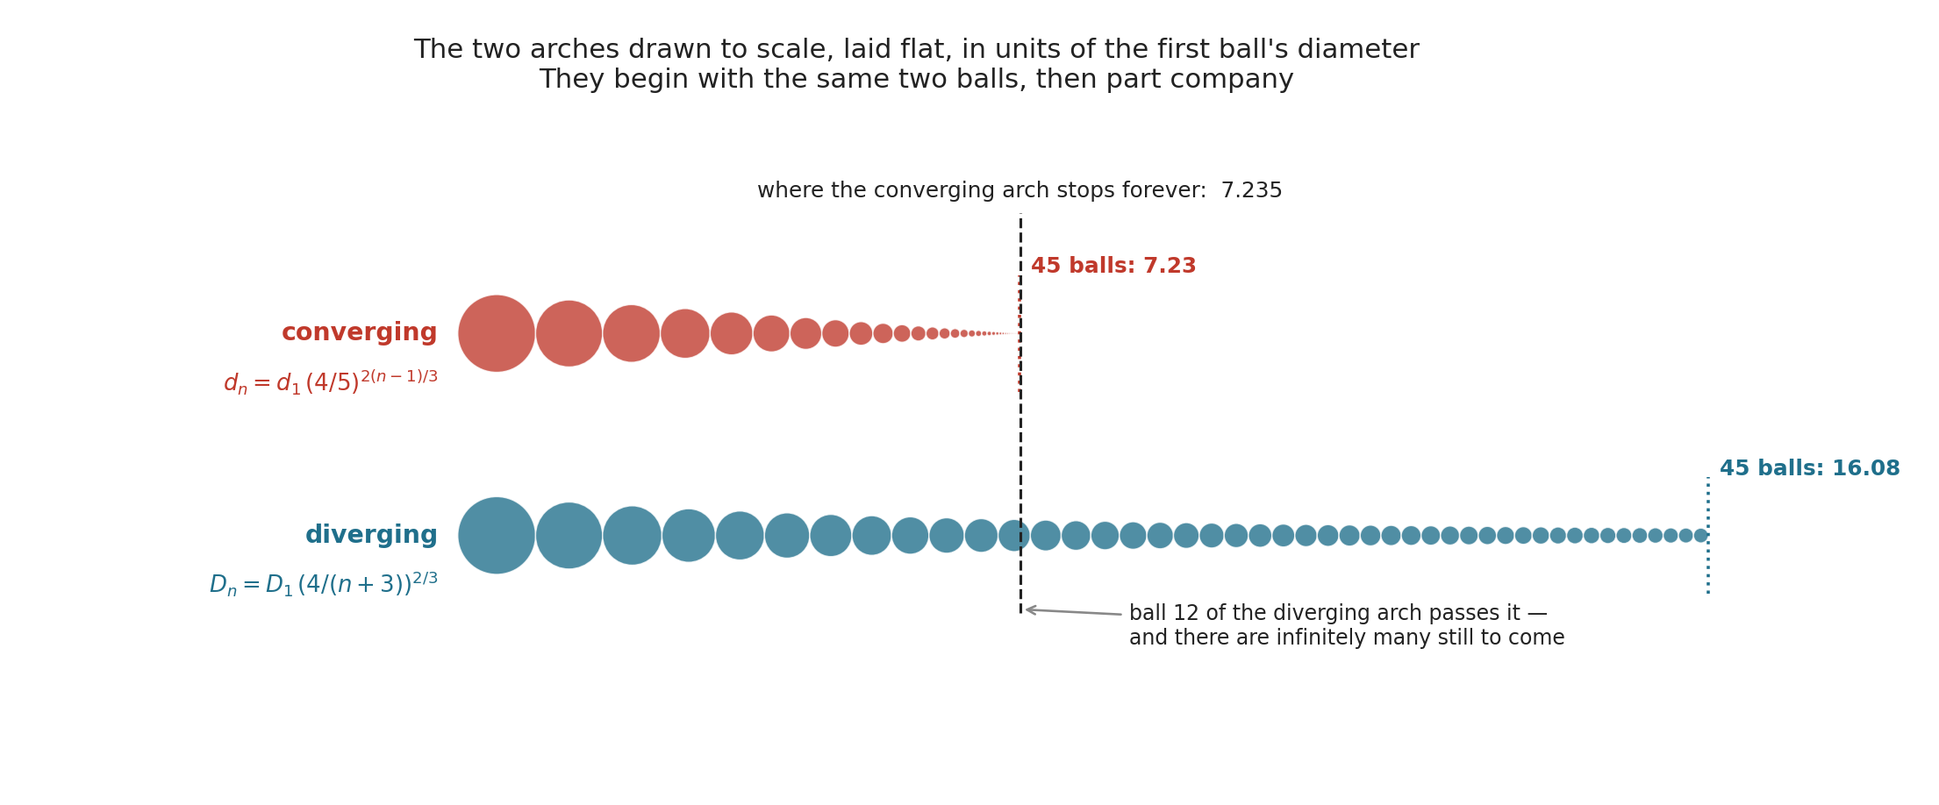
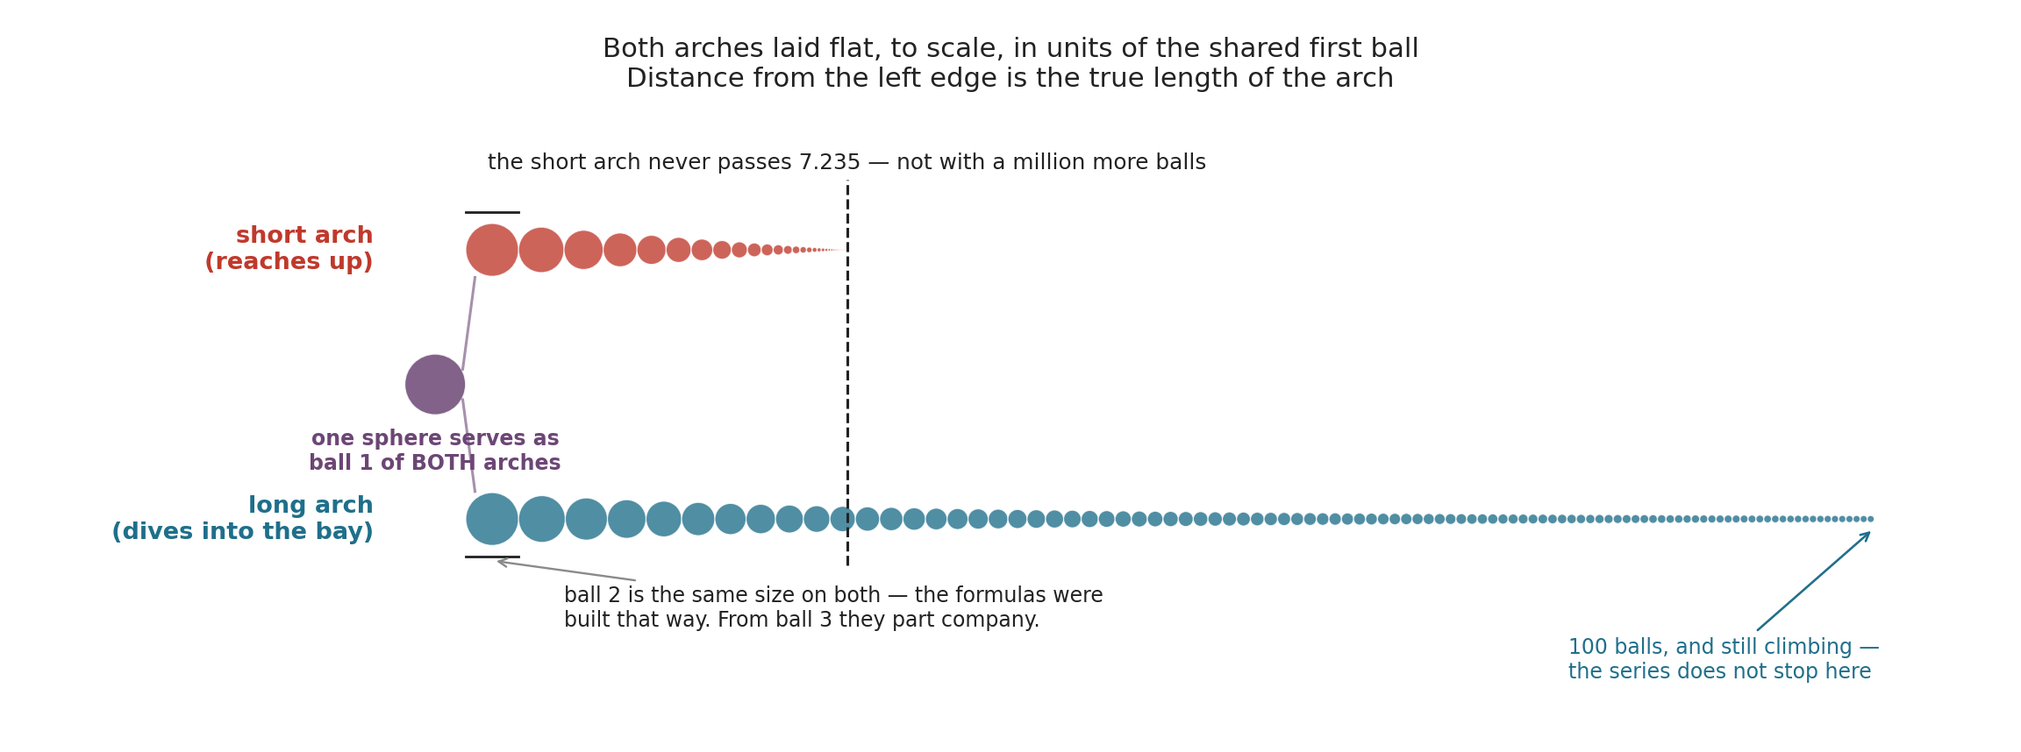
Ball Arches rebuilt on the official text; add the Calculus curriculum page
The official Mathemalchemy copy for the scene confirms the diameter formulas and
settles what the AMS Notices footnote left ambiguous. The two arches use the same
sphere as their first ball, their second balls match by design, and they part
company from the third onward.

Scene page gains the shared first ball, the official short arch / long arch names,
the 100-ball count, the twin-prime index list with the open twin prime conjecture,
and the Catalan solid decorations. Figure redrawn to show the arches branching
from one ball. Polyhedra topic gains a Catalan solids section on duality; team
credits add Daubechies and Peterson for the temari work.

New: Docent Program/Curriculum/Calculus.md, covering the series unit against the
arches, including the geometric-sum derivation the official text draws as two rows
of circles. Replaces the (in progress) placeholder on the curriculum landing page.

Sync script: private-note list gains the two Ball Arches source and working notes
so a stray link degrades to plain text rather than a dead link.

Verified by local build — all internal links resolve, the figure renders, and no
private content or unallowlisted email reaches the rendered output.

diff --git a/content/Scenes/Ball Arches.md b/content/Scenes/Ball Arches.md
@@ -1,41 +1,54 @@
 ---
 tags: [scene]
-math: [convergent-series, divergent-series, harmonic-series, temari]
-verified-against-official-site: false
+math: [convergent-series, divergent-series, harmonic-series, catalan-solids, temari]
+verified-against-official-site: true
 ---
 # Ball Arches
 
-**Math:** [[Infinite Series and Convergence]]
+**Math:** [[Infinite Series and Convergence]] · [[Polyhedra and Euler's Formula]]
 **Craft:** Temari — traditional Japanese embroidered thread balls
 **Official page:** https://mathemalchemy.org/2022/01/11/math-connections-in-the-ball-arches/
 
 ## What it is
-Two arches of thread-wrapped balls rise above the garden. One reaches upward, one plunges
-into the bay, and the difference between them is the whole of what a mathematician means
-by **convergence**.
+Two arches of thread-wrapped balls rise above the garden, and they start from the very
+same ball. One reaches upward — the **short arch**. The other bends around and plunges
+into the bay — the **long arch**. The difference between them is the whole of what a
+mathematician means by **convergence**.
 
-On both arches the balls shrink, and on both they shrink toward nothing. But the upward
+On both arches the balls shrink, and on both they shrink toward nothing. But the short
 arch has a top. Add together the diameters of all its balls — infinitely many of them —
-and the total is a finite height the arch never exceeds. The arch diving into the bay has
-no such ceiling. Its balls shrink too, only slightly more slowly, and that slight
-difference is enough: given room, it would go on forever.
+and the total is a finite height it never exceeds. The long arch has no such ceiling. Its
+balls shrink too, only slightly more slowly, and that slight difference is enough: given
+room, it would go on forever.
 
 Which means you cannot tell the two apart by looking at any one ball. Shrinking to nothing
 is not enough to make an infinite sum finite. That is the surprise, and it is why there
 are two arches here instead of one.
 
-![The two arches drawn to scale, laid flat](ball-arches-to-scale.png)
+![Both arches laid flat, to scale, from their shared first ball](ball-arches-to-scale.png)
 
-What hangs in the gallery is the **visible portion** of each series — over 120 woven balls
-between the two arches. The rest is left to the imagination, which is the only place the
-infinitely small ones could go.
-
-**Both arches are built from balls shrinking toward nothing, yet only one of them has a
+**The two arches are built from balls shrinking toward nothing, yet only one of them has a
 top. What is different about the way they shrink?**
 
-## Why the diving arch never stops
-The arch that plunges into the bay is close kin to the most famous divergent sum in
-mathematics, the **harmonic series**:
+## They begin as one ball, and part on the third
+The first sphere is not two matching balls — it is **one ball, belonging to both arches**.
+The second ball is the same size on each as well, and that is by design: the creators
+chose the formulas so the two arches would agree for two balls before separating. From the
+third ball onward they part company, the long arch's spheres staying stubbornly larger
+ever after.
+
+If the first ball is one unit across, the short arch tops out at almost exactly **7.235
+units** and never passes it — not with a thousand more balls, not with a million. It is
+most of the way there long before you notice: past the twentieth ball it has covered 95%
+of every inch it will ever cover.
+
+The long arch shows **100 balls** before it disappears into the bay, and by then it is
+nearly twenty-four units long with no sign of slowing. The official description follows it
+out past the visible ones with some relish: it would keep going *"through the Earth, out
+of the solar system, out of the galaxy."*
+
+## Why the long arch never stops
+It is close kin to the most famous divergent sum in mathematics, the **harmonic series**:
 
     1 + 1/2 + 1/3 + 1/4 + 1/5 + ⋯
 
@@ -43,24 +56,50 @@ Every term is smaller than the last and they head toward zero, yet the running t
 no ceiling at all. Pass any number you like — a hundred, a million — and the sum will
 eventually go by it, though it takes its time about it.
 
-The arch's balls shrink *more slowly* than those fractions do. Line the two up so the
+The long arch's balls shrink *more slowly* than those fractions do. Line the two up so the
 first ball and the first fraction are the same size, and from there every ball is the
 larger of the pair — so the arch's running total stays ahead of the harmonic series the
 whole way. If that sum has no ceiling, this one certainly cannot.
 
-The two do drift apart in speed, though, and dramatically. To reach a length of fifty
+The two drift apart in speed, though, and dramatically. To reach a length of fifty
 first-ball diameters the arch needs about 535 balls; the harmonic series needs roughly
 940,000 terms to reach the same total. Both are infinite in the end. Being infinite says
 nothing at all about being quick.
 
-## The embroidered balls
-Of the 120-odd balls, **exactly 22 are embroidered — the ones at [twin-prime](https://en.wikipedia.org/wiki/Twin_prime)
-indices** — in the Japanese **[temari](https://en.wikipedia.org/wiki/Temari_(toy))** folk
-art. The choice ties the arches to the primes theme in the garden below —
-[[The Garden and Reef]], where the squirrels run a prime sieve → [[Prime Numbers]]. It
-also solved a practical problem: embroidering all of them was neither feasible nor
-desirable, and the twin primes give a manageable count and a pleasingly irregular
-spacing.
+## The decorated balls
+Not every ball is decorated. The ones that are sit at **[twin-prime](https://en.wikipedia.org/wiki/Twin_prime)
+indices** — 3, 5, 7, 11, 13, 17, 19, 29, 31, 41, 43, 59, 61, 71, 73 — which is why the
+list looks like the primes with gaps in it. Twin primes are primes two apart, so 23, 37
+and 47 are missing: each is prime, but has no partner two away. The choice ties the arches
+to the primes theme in the garden below — [[The Garden and Reef]], where the squirrels run
+a prime sieve → [[Prime Numbers]]. It also solved a practical problem, since embroidering
+all of them was neither feasible nor desirable, and the twin primes give a manageable
+count and a pleasingly irregular spacing.
+
+Whether there are infinitely many twin primes is **still an open question**. That there
+are infinitely many primes was settled over two thousand years ago; the twin prime version
+has resisted ever since. The nearest result, and it is recent, is that there are infinitely
+many pairs of primes no more than 246 apart. Getting that 246 down to 2 is the whole
+remaining problem.
+
+Every decorated ball carries a different design, and each was inspired by one of the
+**[Catalan solids](https://en.wikipedia.org/wiki/Catalan_solid)** — the duals of the
+Archimedean solids, convex polyhedra whose faces are all identical to one another but are
+not regular polygons → [[Polyhedra and Euler's Formula]]. There are only thirteen Catalan
+solids, so with more than a dozen decorated balls the solids necessarily recur even though
+no two decorations are alike.
+
+## How they were made
+Each ball starts as a **styrofoam core** with a hole drilled straight through the middle,
+so the finished balls can be threaded onto a flexible stainless steel arch support. That
+central tunnel is lined with a **1/8-inch plastic drinking straw** to keep the styrofoam
+from crumbling over repeated installations. A layer of yarn at least a quarter-inch thick
+goes on next, thick enough to take a stitch, and then the fine coloured thread that gives
+each ball its surface.
+
+The temari work is by **Ingrid Daubechies**, **Kathy Peterson** and **Carolyn Yackel**.
+Yackel had been making geometric temari for years and taught the other two during the
+build → [[The Team]].
 
 ## Key vocabulary
 - **Convergent series** — an infinite sum whose running total approaches a specific finite
@@ -69,6 +108,10 @@ spacing.
   individual terms shrink toward zero.
 - **Harmonic series** — the sum of 1, 1/2, 1/3, 1/4, … The standard example of a divergent
   series whose terms go to zero → [[Infinite Series and Convergence]].
+- **Twin primes** — a pair of primes differing by 2, such as 11 and 13 → [[Prime Numbers]].
+- **[Catalan solid](https://en.wikipedia.org/wiki/Catalan_solid)** — a convex polyhedron
+  whose faces are all congruent but not regular; the dual of an Archimedean solid →
+  [[Polyhedra and Euler's Formula]].
 - **[Temari](https://en.wikipedia.org/wiki/Temari_(toy))** — the Japanese embroidery art
   rendering each term of the sequence as a physical object.
 
@@ -78,7 +121,7 @@ different craft — a natural pairing.
 
 This is the most directly teachable scene in the installation for a **Calculus 2** course,
 where convergence and divergence of series is a standard unit →
-[[Docent Program/Curriculum/index|Curriculum Connections]].
+[[Docent Program/Curriculum/Calculus|Calculus]].
 
 ## Additional Notes
 **Local connections:** Samantha Pezzimenti (creator; also a creator on [[Knotical (Knotilus Bay)]])

diff --git a/content/Docent Program/Curriculum/Calculus.md b/content/Docent Program/Curriculum/Calculus.md
@@ -1,0 +1,95 @@
+---
+tags: [docent]
+---
+# Calculus
+
+Part of [[Docent Program/Curriculum/index|Curriculum Connections]]. Where the ideas of a
+first-year calculus sequence — and especially the infinite series unit of Calculus 2 —
+show up in the exhibit.
+
+## Why this trip counts
+
+The series unit is where calculus stops being about slopes and areas and starts being
+about infinity, and it is where students most reliably lose their footing. The
+sticking point is almost always the same: they believe that if the terms of a sum shrink
+to nothing, the sum must be finite. It is false, every textbook says so, and the counter
+example on the page never quite lands because it is just more symbols.
+
+The [[Ball Arches]] are that counterexample built out of wool and hung from a ceiling. Two
+arches of thread-wrapped balls spring from a single shared sphere. On both, the balls
+shrink toward nothing. One of them tops out at a height it will never exceed; the other
+would run out of the building, out of the solar system, out of the galaxy. Nothing about
+any individual ball tells you which arch you are looking at. A student who has stood in
+front of those two arches has somewhere to put the idea.
+
+The rest of the exhibit supplies limits, geometric series and improper integrals besides.
+No preparation is needed — but a class that has already met series will get more out of
+the arches than one that has not.
+
+## Where your topics show up
+
+| Concept | Scene | What to point out |
+|---|---|---|
+| **Sequences and limits** | [[Ball Arches]] · [[Tess the Tortoise]] | Ball diameters form a sequence tending to 0. Zeno's Path is a sequence of steps whose lengths halve — the tortoise's whole journey is a limit taken in public. |
+| **Convergent vs divergent series** | [[Ball Arches]] | The short arch converges; the long arch diverges. Both are made of balls shrinking to nothing. This is the single best object in the exhibit for a calculus class. |
+| **The nth-term test, and its converse failing** | [[Ball Arches]] | Terms going to zero is *necessary but not sufficient*. The two arches differ in exactly this way and in no visible way at all. |
+| **Geometric series** | [[Ball Arches]] · [[Tess the Tortoise]] | The short arch is geometric with ratio (4/5)^(2/3) ≈ 0.862, so its total is d₁/(1−r) ≈ 7.235 first-ball diameters. Zeno's ½ + ¼ + ⅛ + ⋯ = 1 is the classroom favourite, walked daily by a tortoise. |
+| **p-series and the integral test** | [[Ball Arches]] | The long arch's diameters go as (n+3)^(−2/3): a p-series with p = 2/3 ≤ 1. The integral test also gives the growth rate, about 3·4^(2/3)·N^(1/3), so doubling the arch takes eight times the balls. |
+| **The ratio test, including when it fails** | [[Ball Arches]] | Decisive on the short arch (L ≈ 0.862 < 1); **inconclusive** on the long arch, where L = 1. Two objects, one test, one answer and one shrug. |
+| **Comparison tests** | [[Ball Arches]] | The long arch's balls are term-by-term larger than the harmonic series, so it diverges because the harmonic series does. |
+| **Improper integrals; finite volume, infinite extent** | [[Ball Arches]] | The long arch is infinitely long, yet the material in it converges — the Gabriel's horn paradox, with the Basel sum π²/6 sitting three terms in. See the caution below before using this one. |
+| **Fractals and self-similarity** | [[The Cavalcade]] · [[Mandelbrot Bakery]] | Koch snowflakes and the Mandelbrot set: infinite perimeter bounding finite area, the same paradox in a different costume → [[Fractals and Self-Similarity]]. |
+
+## The derivation, standing in front of the object
+
+The official text for the arches makes the geometric-series argument **as a picture**, and
+it is worth stealing for class. Lay the first 30 balls of the short arch out in a row and
+call the total length L₃₀. Now draw that same row again, every circle scaled by the ratio
+r, and slide the copy right by one first-ball diameter.
+
+Because scaling a ball by r turns it into the next ball, the copy is balls 2 through 31.
+So the copy is the original **with the first disk removed and one tiny disk added at the
+far end**. Both rows finish at the same place, which is an equation:
+
+    d₁ + r·L₃₀ = L₃₀ + d₃₁
+
+Collect terms and you have the finite geometric sum:
+
+    L₃₀ = (d₁ − d₃₁) / (1 − r)
+
+That is the familiar "multiply by r and subtract" derivation of
+
+    Sₙ = a(1 − rⁿ)/(1 − r)
+
+with the subtraction done by sliding one picture along another. Then let the number of
+balls grow: the leftover sliver d₃₁ shrinks to nothing, and L climbs to d₁/(1−r) without
+ever reaching past it. Students who have only ever seen the algebraic version tend to find
+the sliding-picture version clarifying, because the term that "cancels" is a disk they can
+point at.
+
+## Two cautions before you use this in class
+
+**The exhibit is not a proof.** The arches show finitely many balls — 100 on the long arch
+and a couple of dozen on the short one. They illustrate a limit; they do not establish one.
+That distinction is itself worth raising with students, since "I can see it" is exactly the
+move analysis exists to discipline.
+
+**Do not compute the thread.** The balls are styrofoam cores wrapped in yarn and thread,
+not solid wool, so the tempting "infinite length, finite volume" calculation does not
+describe the physical object. The Gabriel's horn idea is sound and the arch is a fine
+prompt for it, but keep the paradox about the mathematics rather than claiming a number
+for how much thread is on the arch.
+
+## Ready-made activities
+
+The arches do not currently have a gallery activity in the [[Activities Index]] — the
+scene rewards standing and arguing rather than working a worksheet. If you want something
+in hand, the strongest classroom follow-up is to have students derive the 7.235 figure
+themselves from the ratio, then check it against the shape of the arch in front of them.
+
+## But let them wander
+
+This is a map of where *your* topics live, not a route to march through. Point out the
+two arches and the one shared ball at their base, ask which one has a top, and then let
+students loose. The best conversation about convergence is usually the argument they have
+with each other before anyone tells them the answer.

diff --git a/content/Math Topics/Polyhedra and Euler's Formula.md b/content/Math Topics/Polyhedra and Euler's Formula.md
@@ -3,7 +3,7 @@ tags: [math-topic]
 ---
 # Polyhedra and Euler's Formula
 
-**In the exhibit:** [[The Curio Shop]] (the display cabinet) · [[The Garden and Reef]] (100+ of them, as flowers and sea creatures) · [[The Lighthouse]] (a stained-glass dodecahedron) · [[The Terrace]] (three Johnson solids as poufs)
+**In the exhibit:** [[The Curio Shop]] (the display cabinet) · [[The Garden and Reef]] (100+ of them, as flowers and sea creatures) · [[The Lighthouse]] (a stained-glass dodecahedron) · [[The Terrace]] (three Johnson solids as poufs) · [[Ball Arches]] (Catalan solids, embroidered on the decorated balls)
 
 A **[polyhedron](https://en.wikipedia.org/wiki/Polyhedron)** (plural *polyhedra*) is a solid whose surface is made entirely of flat polygon **faces**, meeting along straight **edges**, which meet in turn at corners called **vertices**. A cube is the familiar one: 6 faces, 12 edges, 8 vertices.
 
@@ -17,7 +17,11 @@ Three families of convex polyhedra have names, ordered by how strict the rules a
 
 **[Johnson solids](https://en.wikipedia.org/wiki/Johnson_solid) — exactly 92.** Relax the second rule as well: every face is still a regular polygon, but the vertices no longer have to match each other, and the solid must be strictly convex. That leaves everything not already covered above — Norman Johnson listed all 92 in 1966, and Victor Zalgaller proved in 1969 that none had been missed.
 
-**Out in the wild:** [[The Curio Shop]] keeps them behind glass like rare gems — but the family has clearly gotten loose. Over 100 3D-printed polyhedra have taken up residence in [[The Garden and Reef]], blooming as flower stamens and pistils and drifting about as sea creatures: every Platonic, Archimedean, and Johnson solid, the complete set. A stained-glass dodecahedron catches the beam in [[The Lighthouse]], and three Johnson solids have settled in as purple poufs on [[The Terrace]]. The cabinet has the reputation; the garden has the collection.
+**[Catalan solids](https://en.wikipedia.org/wiki/Catalan_solid) — 13 of them.** These come at the problem from the other side. Take an Archimedean solid and swap its faces for its corners: put a new vertex at the centre of every old face, and join two new vertices whenever the old faces shared an edge. What you get is the **dual**, and the duals of the 13 Archimedean solids are the 13 Catalan solids. The trade shows in the rules — where an Archimedean solid has *regular faces of mixed kinds*, its Catalan dual has *identical faces that are not regular*. The deltoidal icositetrahedron, all 24 faces the same kite, is the dual of the rhombicuboctahedron.
+
+Dualising is an involution: do it twice and you are back where you started. It also swaps face and vertex counts while leaving the edge count alone, which is why Euler's formula below survives the operation untouched.
+
+**Out in the wild:** [[The Curio Shop]] keeps them behind glass like rare gems — but the family has clearly gotten loose. Over 100 3D-printed polyhedra have taken up residence in [[The Garden and Reef]], blooming as flower stamens and pistils and drifting about as sea creatures: every Platonic, Archimedean, and Johnson solid, the complete set. A stained-glass dodecahedron catches the beam in [[The Lighthouse]], and three Johnson solids have settled in as purple poufs on [[The Terrace]]. The Catalan solids turn up in the least likely place of all — stitched onto the decorated balls of the [[Ball Arches]], where each embroidered sphere takes its geometric design from one of the thirteen. The cabinet has the reputation; the garden has the collection.
 
 **Euler's formula** rules them all: **V − E + F = 2** for any convex polyhedron. It's secretly [[Topology]] — the "2" is the Euler characteristic of the sphere.
 

diff --git a/content/About/The Team.md b/content/About/The Team.md
@@ -10,7 +10,7 @@ Official page: https://mathemalchemy.org/team-24-mathematicians-artists-of-mathe
 | Emily Baker | Architect; assistant professor, Fay Jones School of Architecture, U. Arkansas |
 | Dorothy Buck | Mathematician (topology, knots, links); Duke (Math & Biology); Leverhulme Trust grant |
 | Bronna Butler | Artist — glass, mirror, metal sculpture; recreational mathematics |
-| **[Ingrid Daubechies](https://en.wikipedia.org/wiki/Ingrid_Daubechies)** | Mathematician & physicist, Duke; signal/image/data analysis; **project co-founder** — [[Quiltlet]] |
+| **[Ingrid Daubechies](https://en.wikipedia.org/wiki/Ingrid_Daubechies)** | Mathematician & physicist, Duke; signal/image/data analysis; **project co-founder** — [[Quiltlet]], [[Ball Arches]] (temari) |
 | **[Dominique Ehrmann](https://dominiquehrmann.com/en/home/)** | Fiber & media artist; quilting/textiles; **project co-founder, lead artist and fabricator** — [[Quiltlet]] |
 | Rochy Flint | Mathematician & educator; Teachers College, Columbia; founder of MathChavrusa |
 | Faye Goldman | Modular origami & snapology; published author — see [[The Garden and Reef]] |
@@ -20,7 +20,7 @@ Official page: https://mathemalchemy.org/team-24-mathematicians-artists-of-mathe
 | Sabetta Matsumoto | Physics professor, Georgia Tech; differential geometry, 3D printing |
 | Vernelle A. A. Noel | Architect, Georgia Tech; design computation |
 | Elizabeth Paley | Science writer & ceramicist, Duke — [[Cryptography Quilt]], [[Knotical (Knotilus Bay)]] |
-| Kathy Peterson | Administrative coordinator, Duke; craft enthusiast |
+| Kathy Peterson | Administrative coordinator, Duke; craft enthusiast — [[Ball Arches]] (temari) |
 | Samantha Pezzimenti | Asst. teaching professor (local to Philly!); topology & knot theory — [[Ball Arches]], [[Knotical (Knotilus Bay)]] |
 | Tasha Pruitt | Visual artist inspired by nature & science |
 | Kimberly Roth | Math & statistics, Juniata College; recreational math, knitting |
@@ -30,7 +30,7 @@ Official page: https://mathemalchemy.org/team-24-mathematicians-artists-of-mathe
 | Edward Vogel | Electrical engineer & STEM/arts educator |
 | Jake Wildstrom | Assoc. professor, U. Louisville; crochet design, combinatorial optimization |
 | Mary Williams | Fiber artist; Celtic knots, mathematical textiles |
-| Carolyn Yackel | Math professor, Mercer University; mathematical fiber arts — [[Ball Arches]], [[Frieze Tables]] |
+| Carolyn Yackel | Math professor, Mercer University; mathematical fiber arts; taught the team geometric temari — [[Ball Arches]], [[Frieze Tables]] |
 
 ## Local contacts
 Team members in or near the Philadelphia region. This list will grow — other team members and local math faculty from nearby schools may get involved.

diff --git a/content/Docent Program/Curriculum/index.md b/content/Docent Program/Curriculum/index.md
@@ -12,7 +12,7 @@ A map of where a course's or theme's ideas turn up across the exhibit — **not*
 - **Liberal Arts Math** — *(in progress)* chance and probability, the Shannon guessing game and predictive text
 - **Introductory Statistics** — *(in progress)* probability and randomness, estimating the entropy of English from data
 - **Pre-Calculus** — *(in progress)* functions and their behavior, complex numbers, the Mandelbrot set
-- **Calculus** — *(in progress)* limits, infinite series, area and integration
+- **[[Docent Program/Curriculum/Calculus|Calculus]]** — limits, sequences and infinite series, convergence tests, the Gabriel's horn paradox
 - **Discrete Math** — *(in progress)* cryptography, graphs and Euler's formula, symmetry groups, knots
 - **Geometry** — *(in progress)* tessellations, polyhedra, perspective, curved space
 - **For Math Majors** — *(in progress)* modern algebra, topology, number theory, real analysis
